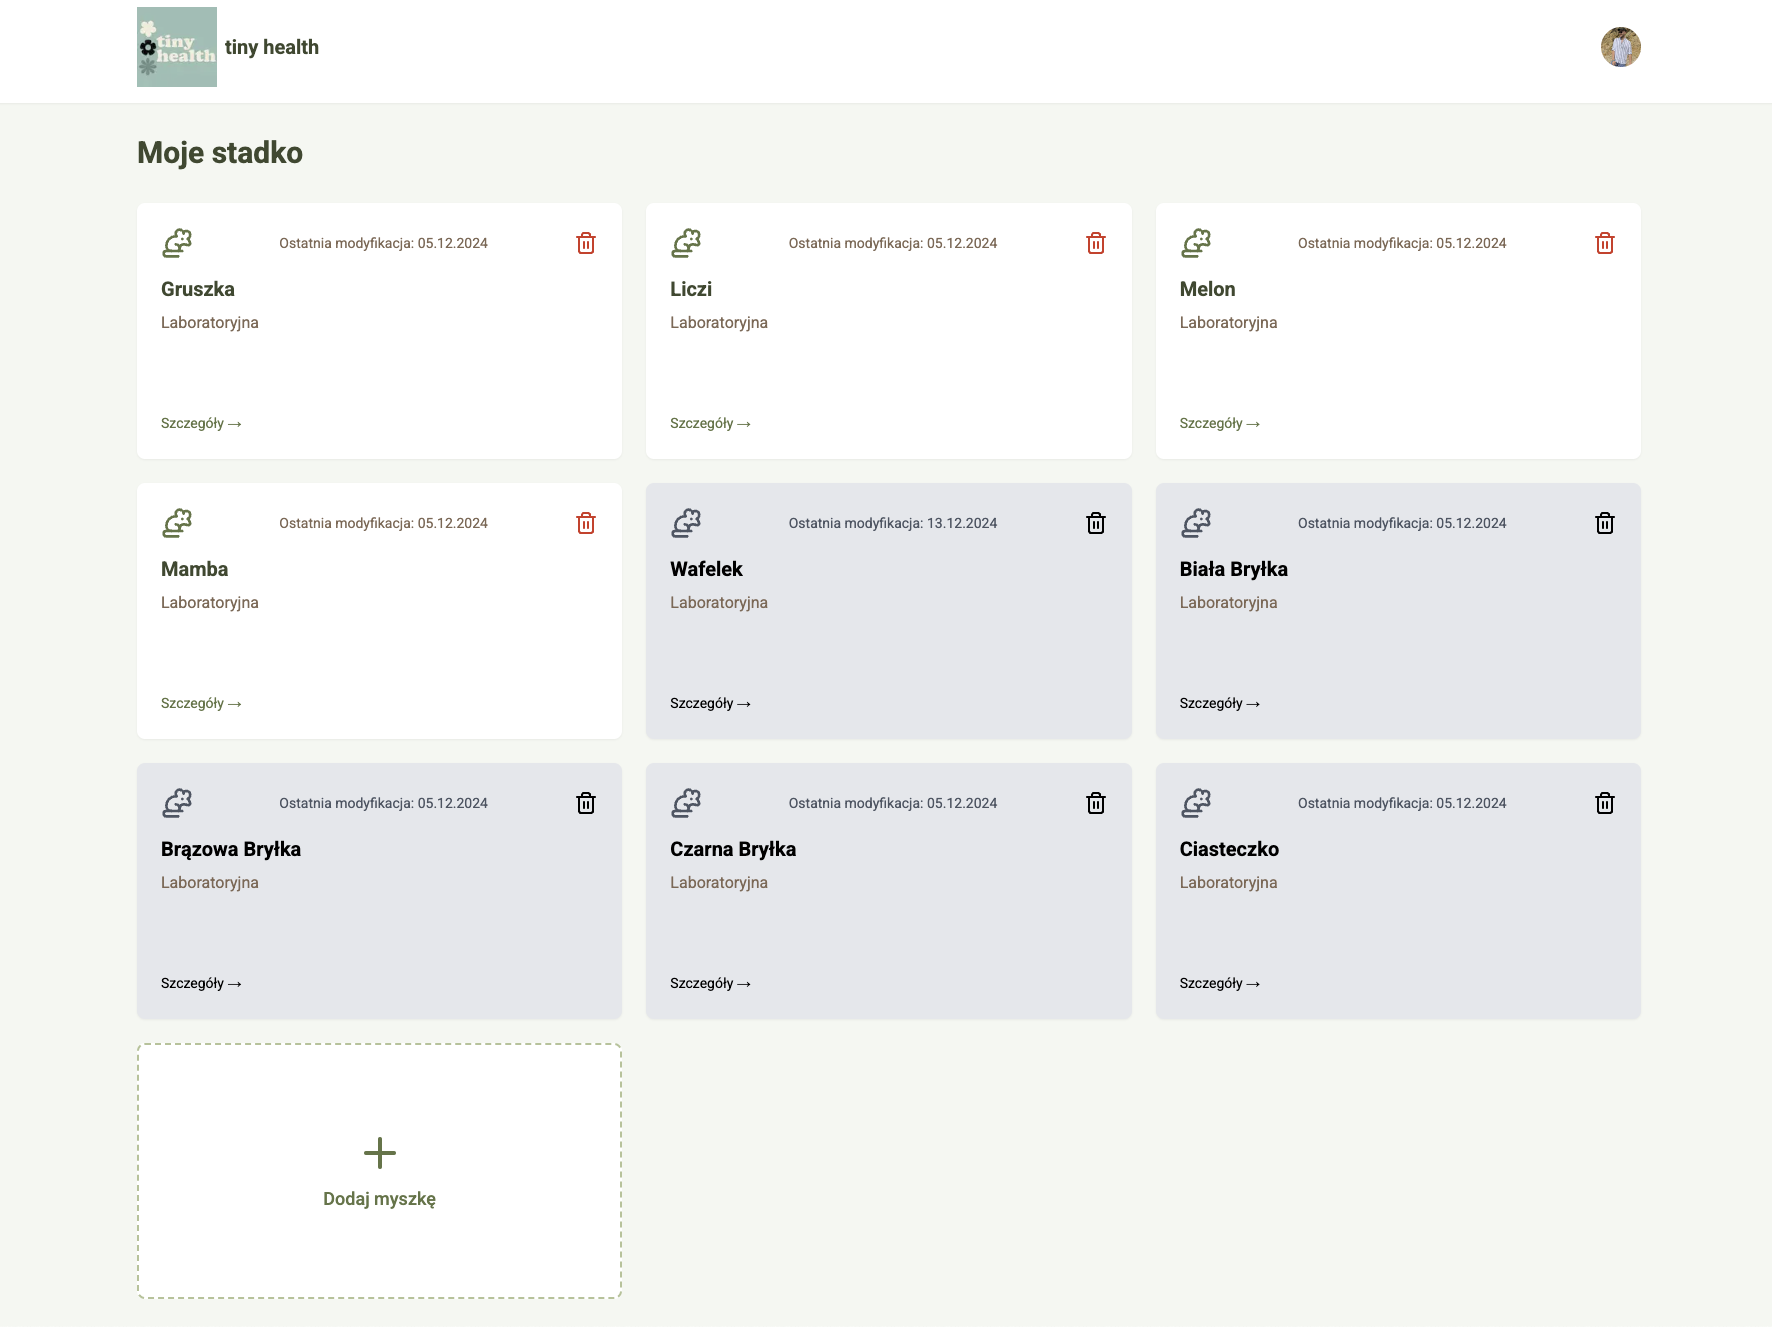
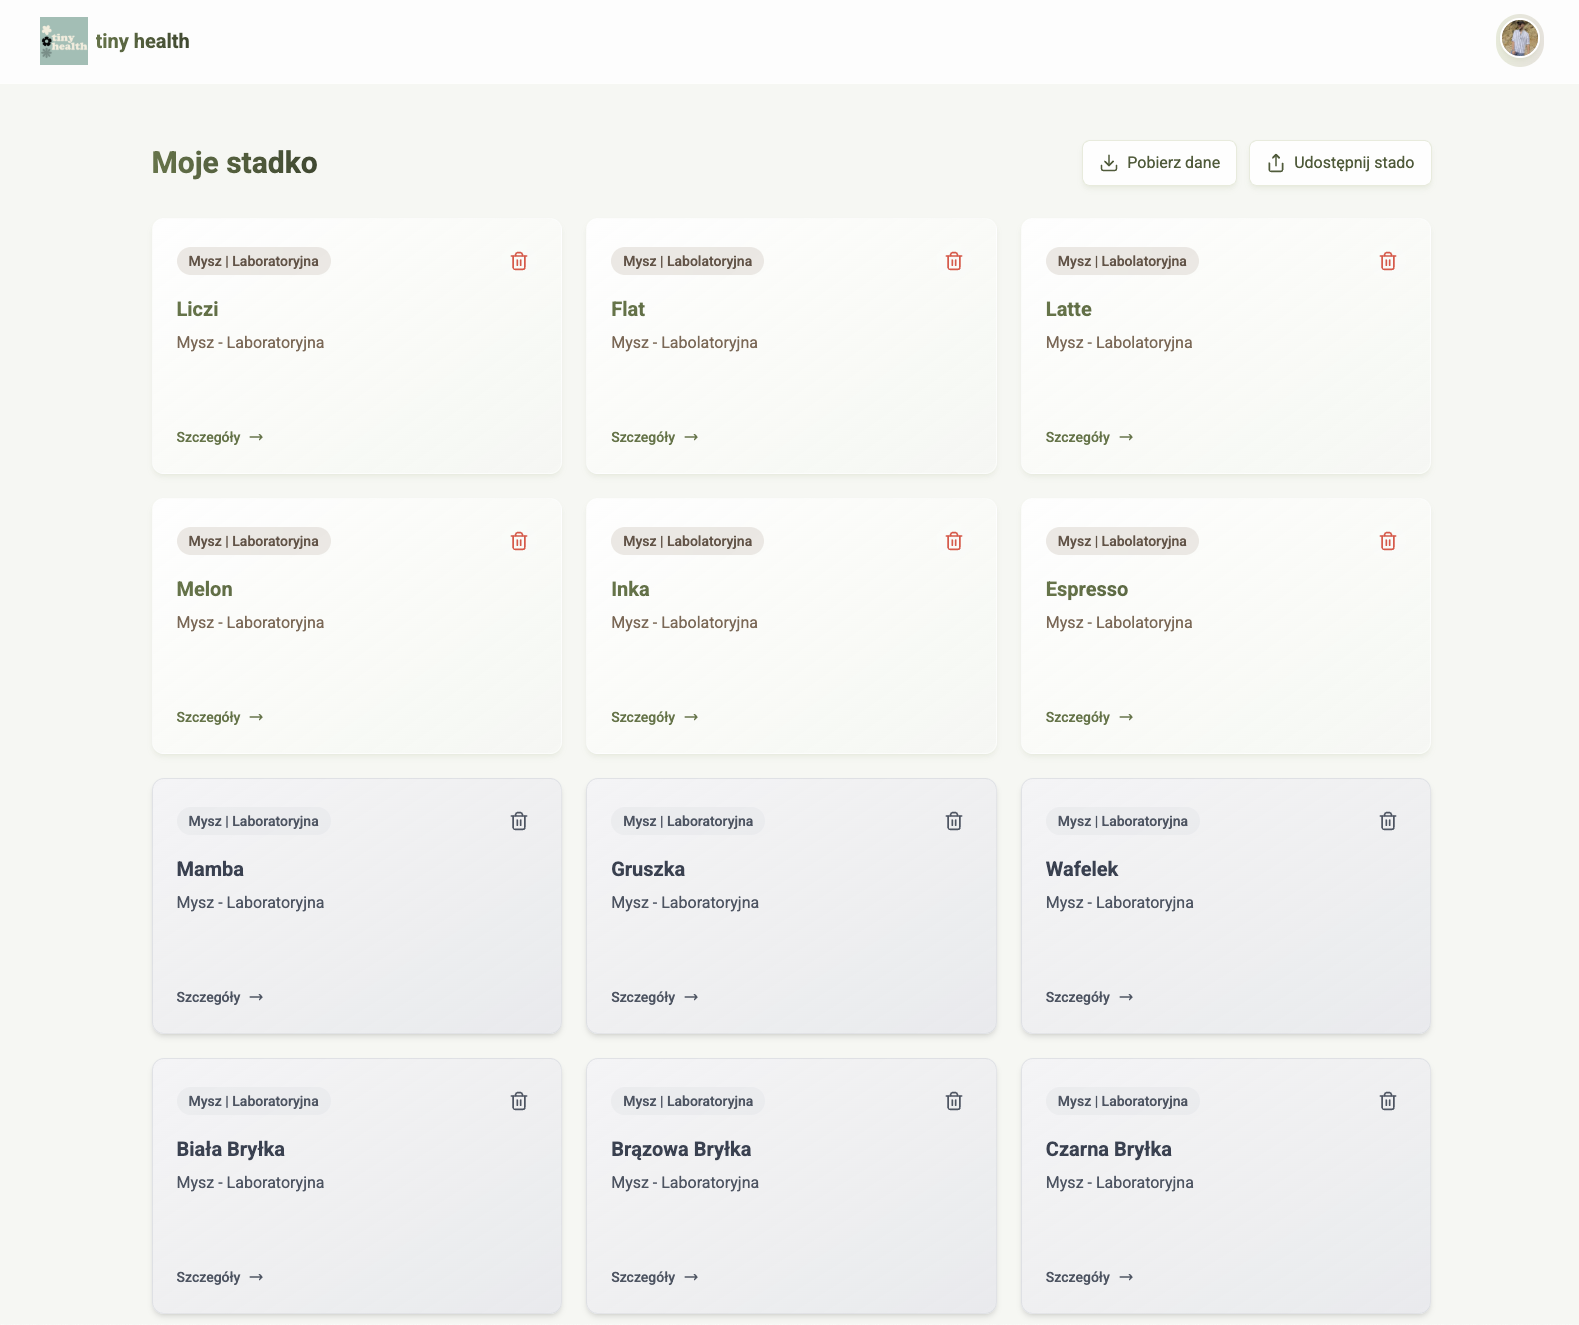
feat: update landing page content

diff --git a/src/components/Welcome.tsx b/src/components/Welcome.tsx
@@ -84,28 +84,34 @@ export default function Welcome() {
   const features = [
     {
       icon: Heart,
-      title: "Monitorowanie zdrowia",
-      description: "Śledź stan zdrowia swoich gryzoni z łatwością i precyzją",
+      title: "Historia wizyt u weterynarza",
+      description: "Śledź historię wizyt u weterynarza swoich gryzoni z łatwością i precyzją",
     },
     {
       icon: BarChart3,
       title: "Analiza wagi",
-      description: "Wizualizuj zmiany wagi w czasie za pomocą interaktywnych wykresów",
+      description: "Wizualizuj zmiany wagi w czasie za pomocą historii wagi i wykresu",
     },
     {
       icon: Camera,
       title: "Galeria zdjęć",
-      description: "Zachowaj najpiękniejsze chwile ze swoimi małymi przyjaciółmi",
+      description: "Dodawaj najfajniejsze zdjęcia swojego pupila i wracaj do wspomnień.",
     },
     {
       icon: Users,
       title: "Udostępnianie",
-      description: "Podziel się opieką z rodziną i znajomymi weterynarza",
+      description: "Podziel się danymi z swoimi najbliższymi osobami",
     },
     {
       icon: Download,
       title: "Eksport danych",
-      description: "Pobierz wszystkie dane w wygodnym formacie CSV",
+      description: "W dowolnej chwili wyeksportuj wszystkie zgromadzone dane",
+    },
+    {
+      icon: Shield,
+      title: "Darmowy i bezpieczny",
+      description:
+        "Serwis jest całkowicie darmowy, wolny od reklam i stworzony zgodnie z panującymi standardami bezpieczeństwa",
     },
   ];
 
@@ -141,14 +147,15 @@ export default function Welcome() {
               <span className="text-gradient">tiny health</span>
               <br />
               <span className="text-2xl md:text-4xl lg:text-5xl font-medium text-secondary-700">
-                Zdrowie Twoich gryzoni w jednym miejscu
+                dbaj o zdrowie swoich małych bohaterów
               </span>
             </h1>
 
             {/* Subtitle */}
             <p className="text-xl md:text-2xl text-secondary-600 max-w-4xl mx-auto mb-12 leading-relaxed">
-              Profesjonalne narzędzie do monitorowania zdrowia, wagi i historii medycznej Twoich
-              małych podopiecznych. Proste, bezpieczne i zawsze pod ręką.
+              Dzięki naszemu narzędziu możesz łatwo rejestrować wizyty u weterynarza, monitorować
+              zmiany w wadze i przechowywać wszystkie istotne informacje w jednym miejscu.
+              Uwieczniaj wyjątkowe chwile, dodając zdjęcia swoich podopiecznych.
             </p>
 
             {/* CTA Buttons */}
@@ -179,9 +186,6 @@ export default function Welcome() {
             <h2 className="text-3xl md:text-4xl font-bold text-gradient mb-6">
               Wszystko czego potrzebujesz
             </h2>
-            <p className="text-xl text-secondary-600 max-w-3xl mx-auto">
-              Kompletne rozwiązanie do opieki nad zdrowiem Twoich gryzoni
-            </p>
           </motion.div>
 
           <div className="grid grid-cols-1 md:grid-cols-2 lg:grid-cols-3 gap-8 max-w-7xl mx-auto">
@@ -203,7 +207,7 @@ export default function Welcome() {
             src="/example1.webp"
             alt="Historia medyczna - przykład"
             title="Prosty interfejs"
-            description="Intuicyjny panel pozwala na łatwe zarządzanie danymi medycznymi. Wszystkie informacje o wizytach, lekach i notatkach w jednym miejscu."
+            description="Śledź historię zdrowotną swoich myszek – od wizyt u weterynarza, przez zmiany w wadze, aż po notatki. Wszystko, czego potrzebujesz, dostępne w jednym miejscu."
             delay={0.2}
           />
 
@@ -219,8 +223,8 @@ export default function Welcome() {
           <ImageShowcase
             src="/example3.webp"
             alt="Wykres wagi - przykład"
-            title="Analiza i raporty"
-            description="Śledź zmiany wagi w czasie dzięki interaktywnym wykresom. Eksportuj dane do PDF lub CSV dla weterynarza."
+            title="Prywatny i bezpieczny"
+            description="Nasz serwis jest całkowicie darmowy, wolny od reklam, a eksport danych daje Ci pełną kontrolę nad informacjami o Twoich zwierzakach."
             delay={0.6}
           />
         </div>
@@ -235,16 +239,12 @@ export default function Welcome() {
           <div className="card-modern p-12 rounded-3xl max-w-4xl mx-auto relative overflow-hidden">
             <div className="absolute inset-0 bg-gradient-to-br from-primary-50/50 to-secondary-50/50" />
             <div className="relative">
-              <h2 className="text-3xl md:text-4xl font-bold text-gradient mb-6">
-                Zadbaj o swoich małych bohaterów
-              </h2>
               <p className="text-xl text-secondary-700 mb-8 max-w-2xl mx-auto leading-relaxed">
-                Dołącz do tysięcy opiekunów, którzy ufają tiny health w opiece nad swoimi
-                gryzoniami. Całkowicie za darmo, bez reklam.
+                Dołącz do naszej społeczności i zadbaj o zdrowie swoich małych bohaterów już dziś!
               </p>
               <SignUpButton mode="modal">
                 <button className="btn-primary px-10 py-4 text-lg font-semibold rounded-xl hover:scale-105 transition-all duration-300 shadow-glow">
-                  Rozpocznij przygodę
+                  Rozpocznij przygodę z serwisem
                 </button>
               </SignUpButton>
             </div>
